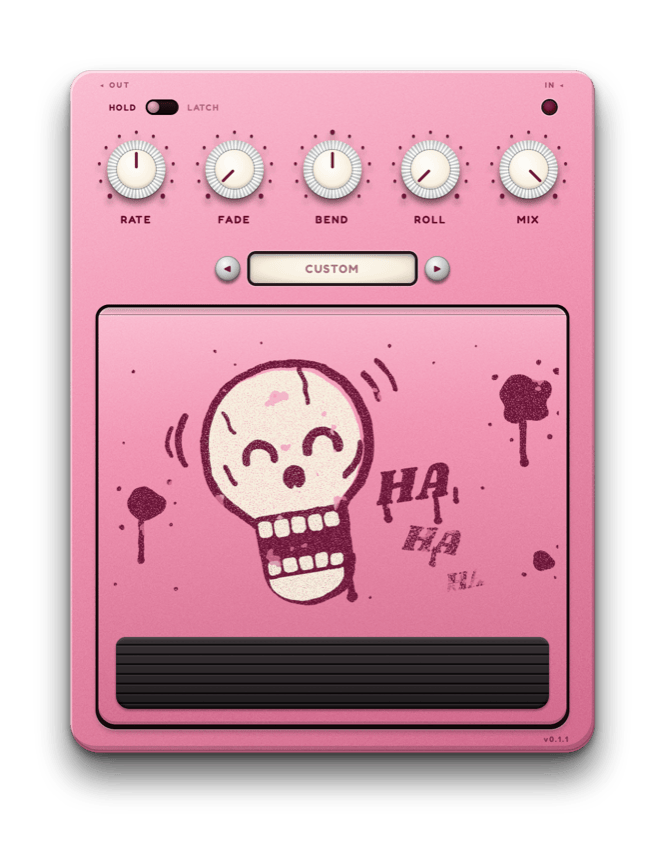
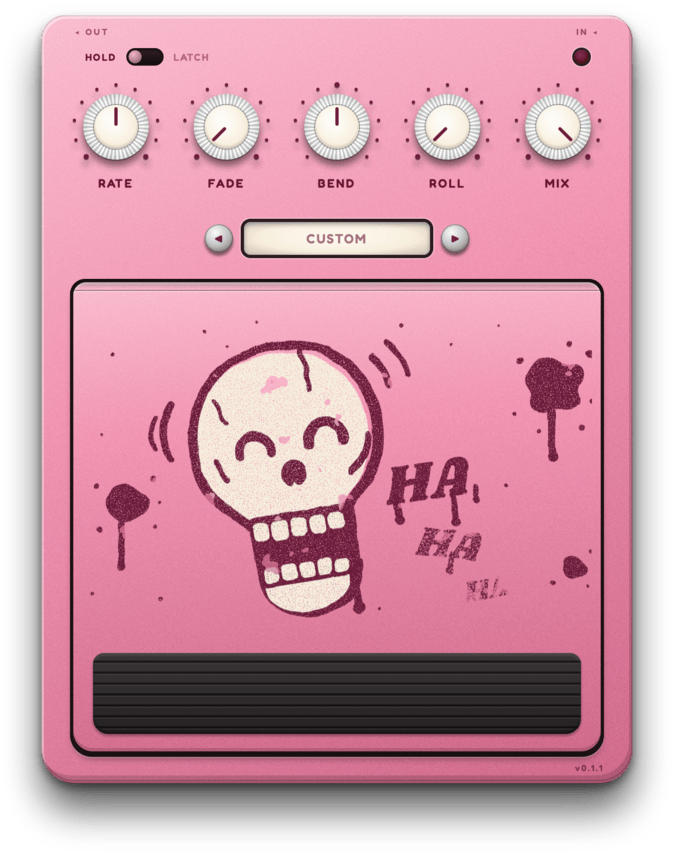
Crop screenshots to the object and its shadow
The margin added for the drop shadow made the screenshot taller than
the window, so after scaling the object filled less of the image and
sat above centre. The script now trims the transparent edges with
ImageMagick before scaling, and the workflow installs it.

Claude-Session: https://claude.ai/code/session_01M6vpxR81VaPY9T4oUmhAa4

diff --git a/.claude/skills/screenshot/SKILL.md b/.claude/skills/screenshot/SKILL.md
@@ -14,13 +14,14 @@ the `alt` text gets updated.
 1. Run `cargo test` so `ui/mock.json` is known to match the plugin's
    parameters and defaults, and the shot shows the real controls at
    their defaults. If it's stale, rewrite it with `BLESS=1 cargo test`.
-2. Run `scripts/screenshot.sh`. It needs `pngquant`
-   (`brew install pngquant`). It renders the page against its mock in
-   WebKit at 2x and `PAGE.size`, with the version from `Cargo.toml`.
-   It drops the `html` and `body` backgrounds, so the object sits on
-   transparency with its shadow. Then it writes `docs/<name>.png` 852 px
-   tall, quantized with pngquant, and sets the README `<img>` `width` to
-   half its pixel width. An older `docs/<name>.jpg` is deleted and the
+2. Run `scripts/screenshot.sh`. It needs pngquant and ImageMagick
+   (`brew install pngquant imagemagick`). It renders the page against
+   its mock in WebKit at 2x and `PAGE.size`, with the version from
+   `Cargo.toml`, plus a margin for the drop shadow. It drops the `html`
+   and `body` backgrounds, so the object sits on transparency with its
+   shadow. Then it crops to what's visible, writes `docs/<name>.png`
+   852 px tall, quantized with pngquant, and sets the README `<img>`
+   `width` to half its pixel width. An older `docs/<name>.jpg` is deleted and the
    README `<img>` pointed at the PNG.
 3. Look at the PNG. If fonts haven't loaded, a knob is mid-glide or the
    mock's values are off, fix that and rerun it. To see the

diff --git a/README.md b/README.md
@@ -1,6 +1,6 @@
 # Ha Ha Ha
 
-<img src="docs/hahaha.png" width="332" alt="Ha Ha Ha, a bubblegum-pink pedal printed in maroon, with a Hold/Latch toggle and a red LED over five cream knobs with chrome skirts (Rate, Fade, Bend, Roll, Mix), a cream preset window between chrome arrow buttons, and a wide hinged treadle printed with a laughing skull spilling HA HA HA above a ribbed rubber pad">
+<img src="docs/hahaha.png" width="337" alt="Ha Ha Ha, a bubblegum-pink pedal printed in maroon, with a Hold/Latch toggle and a red LED over five cream knobs with chrome skirts (Rate, Fade, Bend, Roll, Mix), a cream preset window between chrome arrow buttons, and a wide hinged treadle printed with a laughing skull spilling HA HA HA above a ribbed rubber pad">
 
 A tempo-synced repeater pedal, as a VST3 and CLAP plugin for macOS and
 Windows. Hold the treadle and it grabs the last beat division you played
